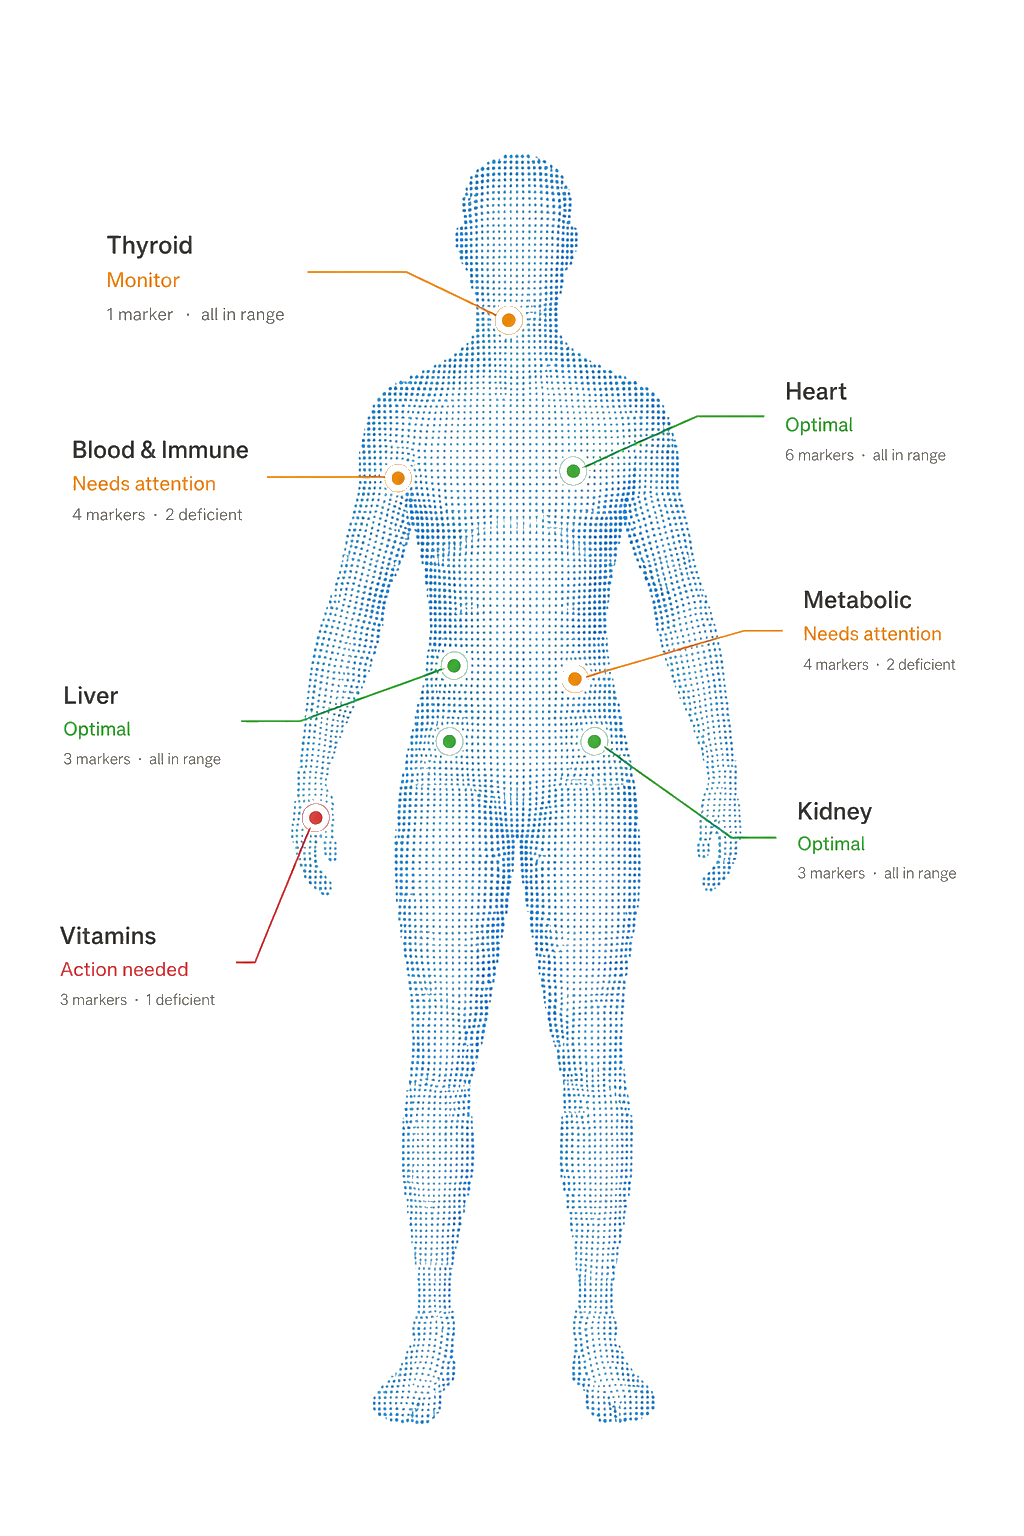
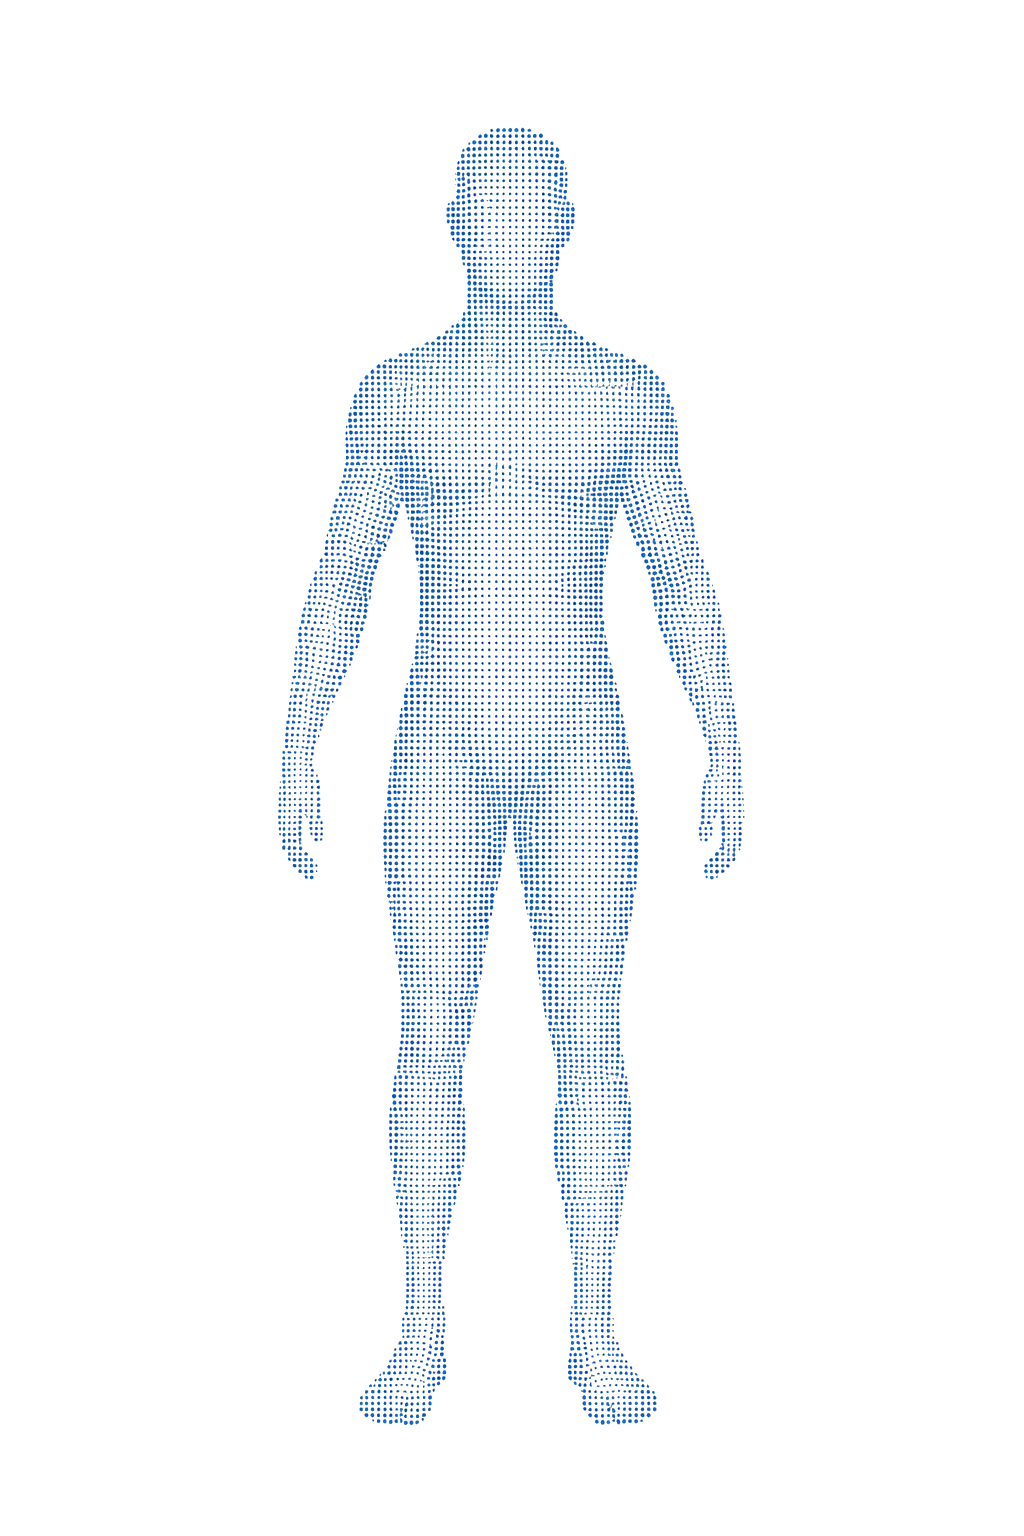
Body model: clean asset, enlarged figure, calibrated anchors, footer
1. ASSET: replace figure.png with clean stipple-only PNG (no baked-in
   labels/dots/lines). Stripped cream background to transparency via PIL.

2. FIGURE SIZE: increased height from min(560px,58vw) to min(650px,67vw)
   (~16%), width locked to 2:3 aspect ratio; cards still have 240px+
   clearance each side at 960px container.

3. ANCHORS: recalibrated from the 1024x1536 asset bounding box
   (figure spans x: 27.1-72.7%, y: 8.3-92.7% of image):
     Thyroid        x=49.9  y=23.5  (throat, base of neck)
     Blood&Immune   x=47.2  y=32.8  (upper chest, sternum)
     Liver          x=46.7  y=45.4  (upper abdomen, person right)
     Vitamins       x=33.5  y=58.9  (left forearm)
     Heart          x=53.1  y=31.9  (viewer right of sternum)
     Metabolic      x=49.9  y=50.5  (center abdomen)
     Kidney         x=54.5  y=56.4  (lower-right flank)

4. FOOTER: quiet ink-2 caption beneath body systems section on dashboard.

diff --git a/lib/data.ts b/lib/data.ts
@@ -355,21 +355,24 @@ function deriveSystem(
 }
 
 // Anchors are % of figure box. Use CALIBRATE=true in BodyModel to tune them.
+// Anchors calibrated against the 1024x1536 clean stipple asset
+// (x/y = % of figure-box div which equals % of image since img fills the div).
+// Flip CALIBRATE=true in BodyModel to re-tune interactively.
 export const bodySystems: BodySystem[] = [
-  // LEFT column — top → bottom
+  // LEFT column — top to bottom
   deriveSystem('thyroid',   'Thyroid',        ['Thyroid'],
-    { x: 50, y: 19 }, 'left'),
+    { x: 49.9, y: 23.5 }, 'left'),
   deriveSystem('blood',     'Blood & Immune',  ['Complete Blood Count', 'Acute Phase Reactants'],
-    { x: 44, y: 33 }, 'left'),
+    { x: 47.2, y: 32.8 }, 'left'),
   deriveSystem('liver',     'Liver',           ['Liver Function'],
-    { x: 44, y: 46 }, 'left'),
+    { x: 46.7, y: 45.4 }, 'left'),
   deriveSystem('vitamins',  'Vitamins',        ['Vitamins'],
-    { x: 30, y: 62 }, 'left'),
-  // RIGHT column — top → bottom
+    { x: 33.5, y: 58.9 }, 'left'),
+  // RIGHT column — top to bottom
   deriveSystem('heart',     'Heart',           ['Lipids & Cardiac'],
-    { x: 54, y: 31 }, 'right'),
+    { x: 53.1, y: 31.9 }, 'right'),
   deriveSystem('metabolic', 'Metabolic',       ['Metabolic'],
-    { x: 53, y: 49 }, 'right'),
+    { x: 49.9, y: 50.5 }, 'right'),
   deriveSystem('kidney',    'Kidney',          ['Kidney Function', 'Urinalysis'],
-    { x: 57, y: 56 }, 'right'),
+    { x: 54.5, y: 56.4 }, 'right'),
 ]

diff --git a/components/dashboard/BodyModel.tsx b/components/dashboard/BodyModel.tsx
@@ -198,8 +198,8 @@ export function BodyModel() {
           ref={figRef}
           className="absolute left-1/2 -translate-x-1/2 top-5"
           style={{
-            height: 'min(560px, 58vw)',
-            width:  `calc(min(560px, 58vw) * ${IMG_ASPECT})`,
+            height: 'min(650px, 67vw)',
+            width:  `calc(min(650px, 67vw) * ${IMG_ASPECT})`,
           }}
           onMouseMove={onCalibMove}
           onClick={onCalibClick}

diff --git a/app/(shell)/dashboard/page.tsx b/app/(shell)/dashboard/page.tsx
@@ -34,6 +34,9 @@ export default function DashboardPage() {
           Tap any system to see your markers in detail.
         </p>
         <BodyModel />
+        <p className="text-[12px] text-ink-2 mt-4 leading-relaxed">
+          Head over to labs for a detailed overview of your markers.
+        </p>
 
       </div>
     </>